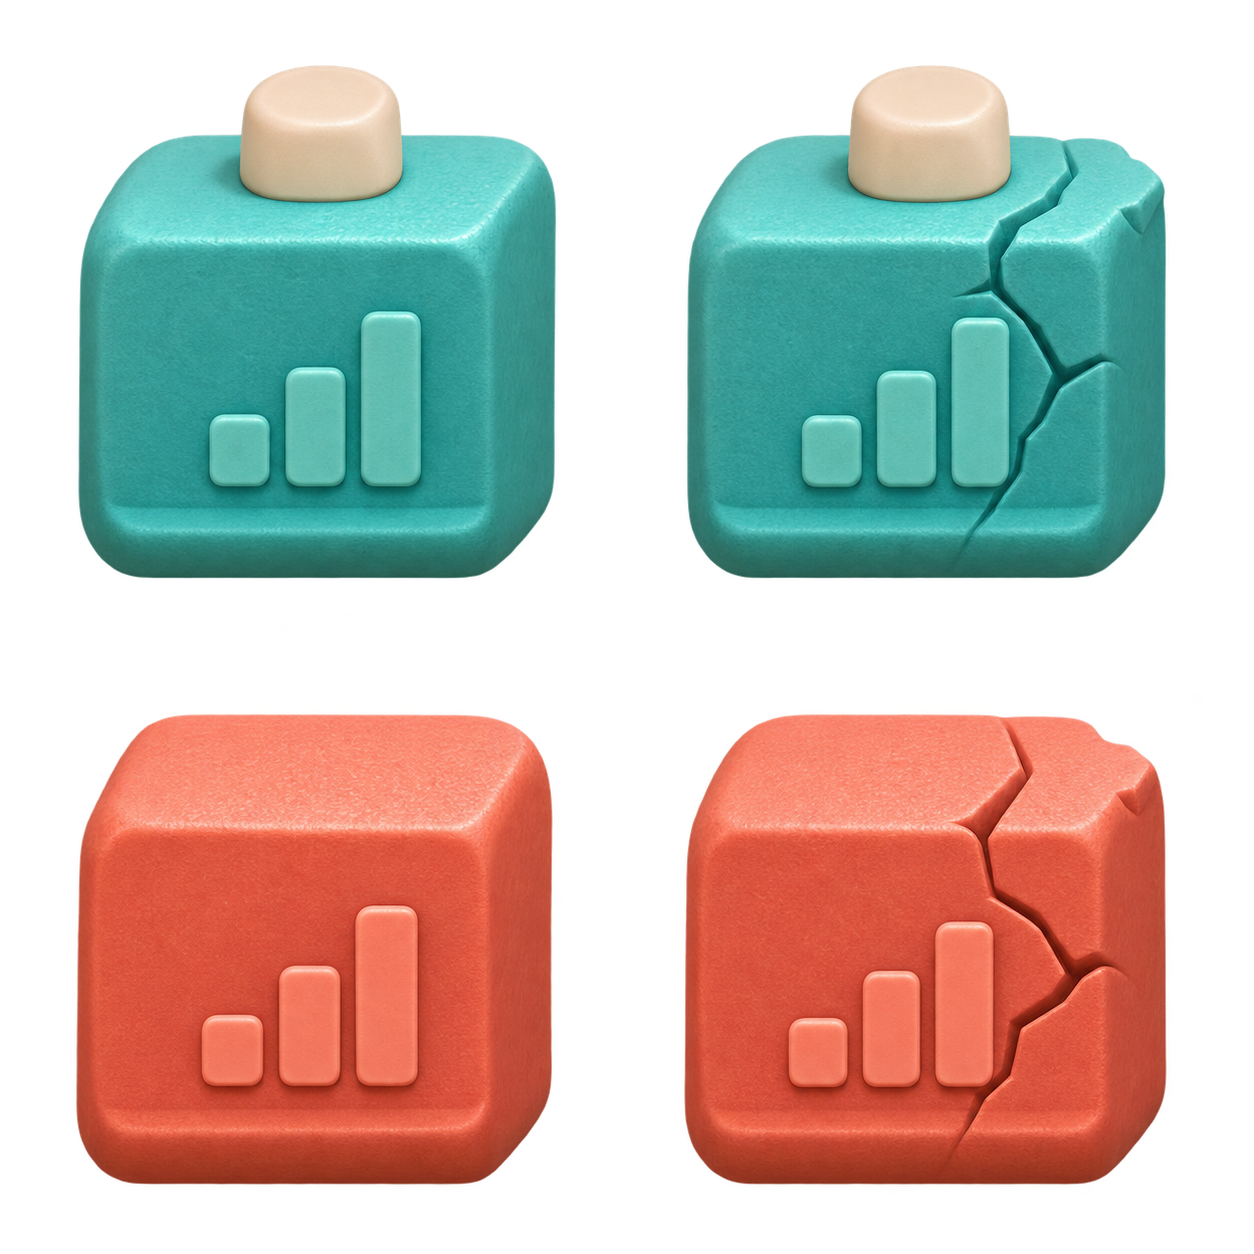
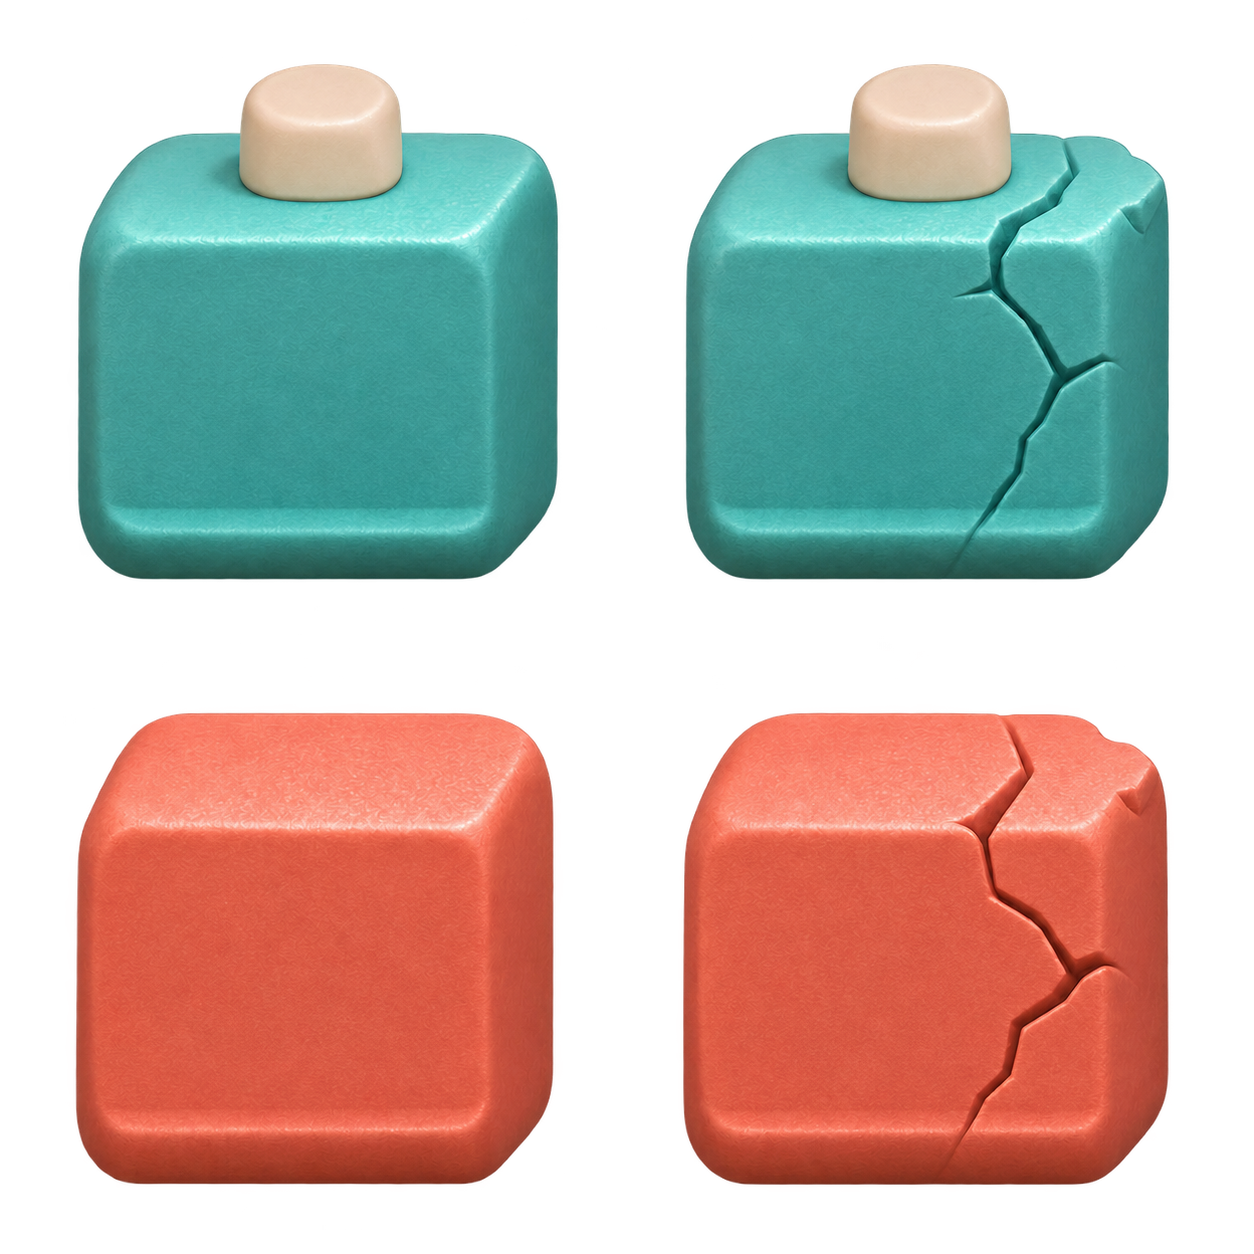
design: 매수벽과 매도벽 표면의 차트 그림 제거

diff --git a/app/src/mental/assets/README.md b/app/src/mental/assets/README.md
@@ -9,7 +9,7 @@
 - hero-toy.png: B안의 둥근 크림색 장난감 고양이 뒷모습. 총과 두 앞발은 drawStageGun.ts에서 회전 렌더링하며 준비 화면도 같은 결합점을 사용한다.
 - hero.png: 이전 고양이 원본 (현재 미사용)
 - enemies.png: 2×2 아틀라스. 좌상 패닉, 우상 투매, 좌하 투기, 우하 손절
-- wall-blocks-toy.png: B안의 표면 입자·둥근 모서리·양각 그래프를 유지한 블록 아틀라스. 위쪽 매수 / 아래쪽 매도, 왼쪽 정상 / 오른쪽 균열. 벽은 여섯 블록으로 조합한다.
+- wall-blocks-toy.png: B안의 표면 입자·둥근 모서리를 유지하고 앞면의 차트 그림을 제거한 블록 아틀라스. 위쪽 매수 / 아래쪽 매도, 왼쪽 정상 / 오른쪽 균열. 벽은 여섯 블록으로 조합한다.
 
 원본의 여백은 런타임에서 알파값으로 측정하고 한 번만 캐시합니다. 충돌 반지름·총구 좌표는 코드에서 관리합니다.
 
@@ -17,9 +17,9 @@
 
 ### wall-blocks-toy.png
 
-내장 image_gen 사용, transparent_background: true. 참조: `docs/mockups/2026-11-10-toy-arena/concept-b.png`.
+내장 image_gen 편집 사용, transparent_background: true. 편집 대상은 기존 `wall-blocks-toy.png`이며, 정상·균열 네 블록 모두의 양각 차트를 제거했다. 투명 배경과 2×2 배치는 유지한다.
 
-Create ONE production transparent game sprite atlas, square canvas divided into EXACT equal 2x2 invisible cells. Source reference is the approved B concept: faithfully match the chunky coral SELL wall and aqua BUY wall block material, not a reinterpretation. Four isolated SINGLE wall blocks, one per quadrant, each centered at 25%/75% canvas coordinates and fitting central 78% of its cell, no overlap. Top left: intact aqua/teal buy block with ONE short ivory cylindrical peg on the top, three ascending raised teal volume bars embossed on its front. Top right: same aqua block, same peg, same size/camera/lighting, with a substantial branching crack and one tiny chipped corner but no detached debris. Bottom left: intact coral salmon sell block, no peg, three small ascending raised coral volume bars on front. Bottom right: same coral block, same size/camera/lighting with a branching fracture and a chipped corner, no detached debris. Material and shape CRITICAL: thick squishy-looking matte molded toy blocks like the reference, broad strongly rounded bevels, softly illuminated top face, visible chunky right side and lower edge, fine subtle foam/clay grain, soft ambient occlusion at edges and relief marks. Orthographic elevated near-front view, front face dominant, top face clearly visible, small right side visible. No bright white outlines, no flat vector style, no thin luminous stroke, no glossy glass, no flat UI button look. Warm soft studio lighting upper left. Consistent scale between cells, approximately square blocks (buy peg adds a little height). Truly transparent alpha background. No ground plane, no cast shadow outside block, no text, labels, numbers, characters, coins, dividers, borders or additional objects. All four blocks are SEPARATE reusable game sprites, not assembled into a wall.
+Edit target: the attached existing production game sprite atlas. Precise-object-edit. Remove ONLY the embossed three-bar chart symbols from the front faces of ALL FOUR blocks, replacing the symbols and their shadows with seamless matching plain textured material. Preserve everything else as closely as possible: the exact 2 by 2 grid, quadrant positions, transparent margins and background, the silhouettes and dimensions of each block, perspective, mint turquoise top two blocks with cream cylinder on top, coral orange bottom two blocks, rounded edges, highlights, fine plastic/clay grain texture, and especially the existing deep cracks on both RIGHT-hand blocks. The two left blocks stay intact, the two right blocks stay cracked. No charts, bars, arrows, pictograms, letters, numbers, new objects or decorations. This will replace the existing game texture and must retain the same 2x2 atlas layout with each sprite wholly within its quadrant. Truly transparent alpha background. Output one edited atlas.
 
 ### hero-toy.png
 
